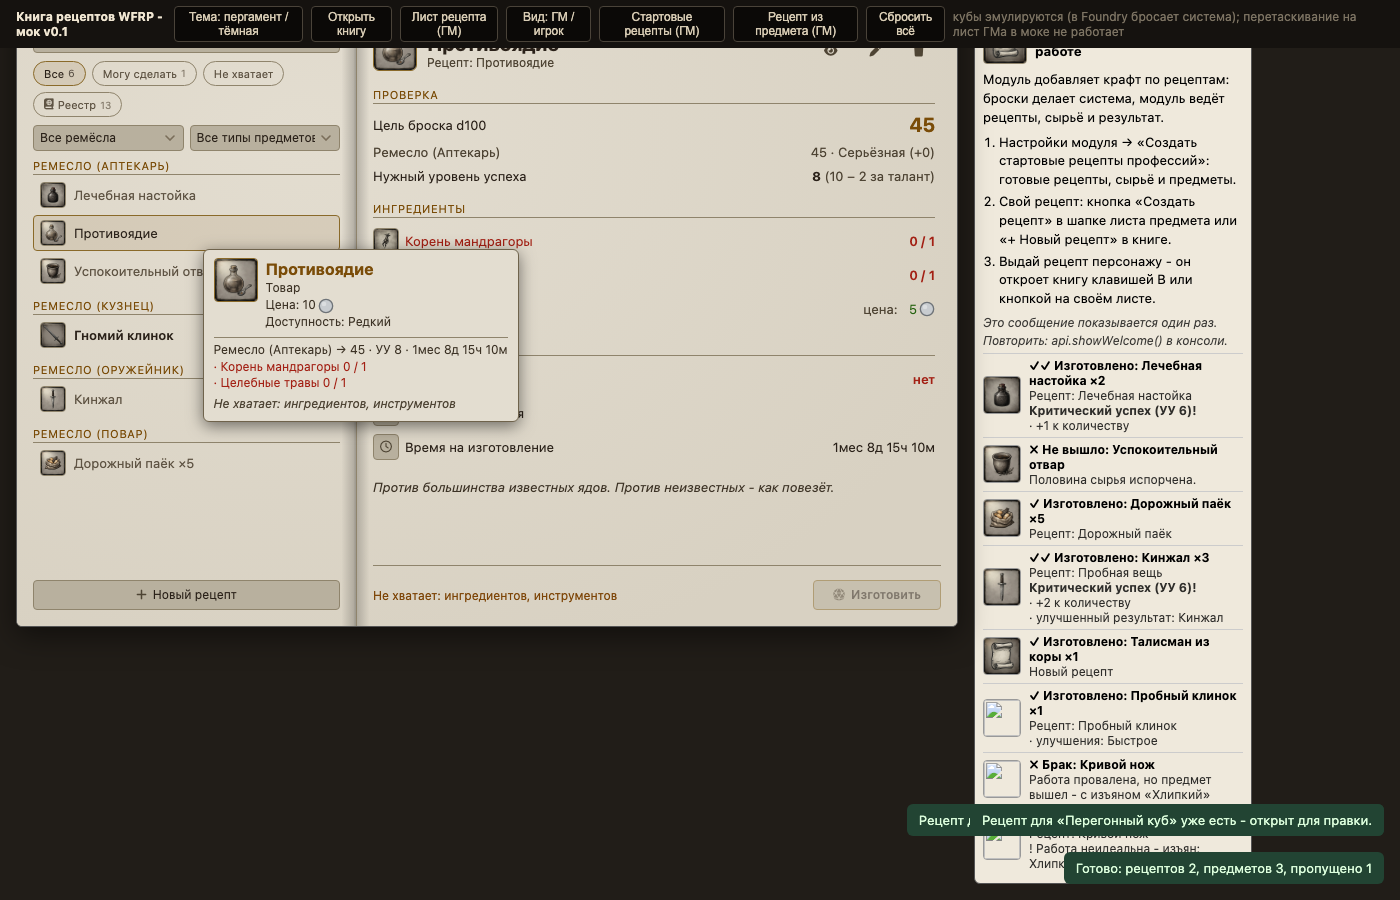
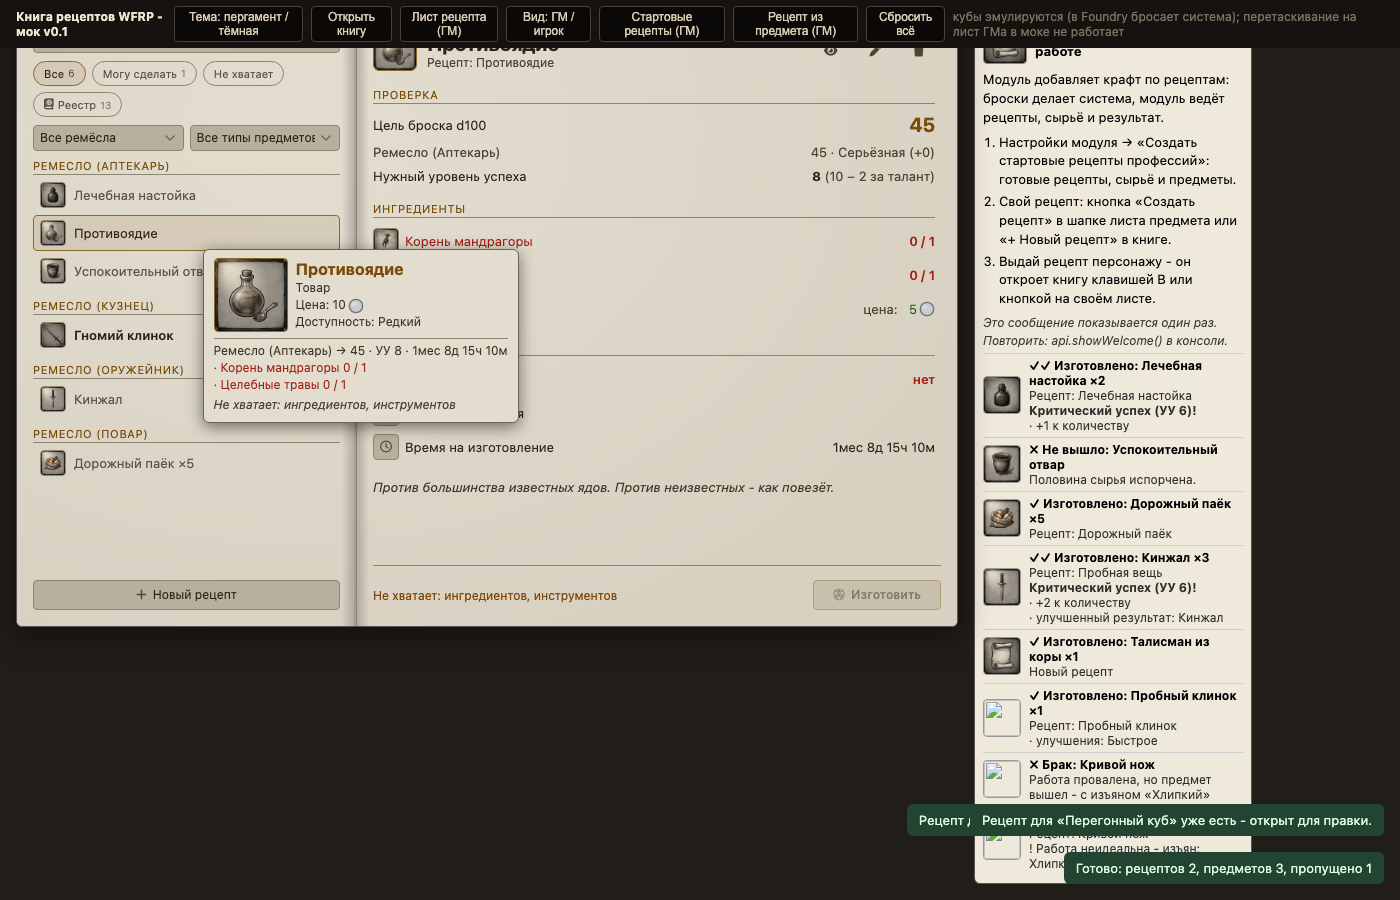
v0.1.32: крупная иконка в карточке-подсказке (72px), короткая строка статуса

Changed region(s): [[0.1536, 0.28, 0.3686, 0.4667]]

diff --git a/styles/rb-system.css b/styles/rb-system.css
@@ -45,6 +45,7 @@
   /* Размеры: иконки, монеты, кнопки, числовые поля */
   --rb-icon-s: 24px;
   --rb-icon-l: 42px;
+  --rb-icon-tt: 72px;   /* картинка в карточке-подсказке */
   --rb-icon-xl: 144px;
   --rb-coin: 16px;
   --rb-btn-h: 30px;
@@ -338,7 +339,7 @@
 
 /* Богатый ховер предмета */
 .wfrp-recipe-book .rb-tt-head { display: flex; gap: var(--rb-space-3); align-items: flex-start; margin-bottom: var(--rb-space-2); }
-.wfrp-recipe-book .rb-tt-head > img { width: var(--rb-icon-l); height: var(--rb-icon-l); object-fit: cover; border: 1px solid var(--rb-gold-soft); border-radius: var(--rb-radius); flex: 0 0 var(--rb-icon-l); }
+.wfrp-recipe-book .rb-tt-head > img { width: var(--rb-icon-tt); height: var(--rb-icon-tt); object-fit: cover; border: 1px solid var(--rb-gold-soft); border-radius: var(--rb-radius); flex: 0 0 var(--rb-icon-tt); }
 .wfrp-recipe-book .rb-tt-name { font-size: var(--rb-fs-xl); font-weight: 700; color: var(--rb-gold); }
 .wfrp-recipe-book .rb-tt-line { color: var(--rb-text-2); font-size: var(--rb-fs-m); }
 .wfrp-recipe-book .rb-tt-craft { border-top: 1px solid var(--rb-frame); padding-top: var(--rb-space-1); margin-top: var(--rb-space-1); }
@@ -400,10 +401,10 @@
   width: var(--rb-icon-s) !important; height: var(--rb-icon-s) !important;
 }
 .wfrp-recipe-book .rb-head-img,
-.wfrp-recipe-book .rb-sheet-img,
-.wfrp-recipe-book .rb-tt-head > img {
+.wfrp-recipe-book .rb-sheet-img {
   width: var(--rb-icon-l) !important; height: var(--rb-icon-l) !important;
 }
+.wfrp-recipe-book .rb-tt-head > img { width: var(--rb-icon-tt) !important; height: var(--rb-icon-tt) !important; }
 .wfrp-recipe-book .rb-forge-img { width: var(--rb-icon-xl) !important; height: var(--rb-icon-xl) !important; }
 
 /* Видимый фокус с клавиатуры (доступность): золотая обводка, не ломает мышиные клики */
